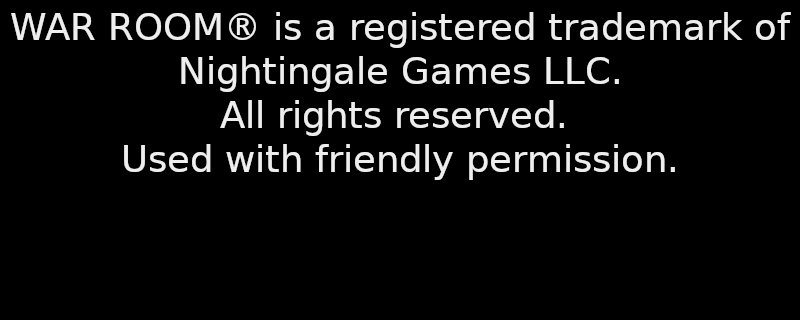
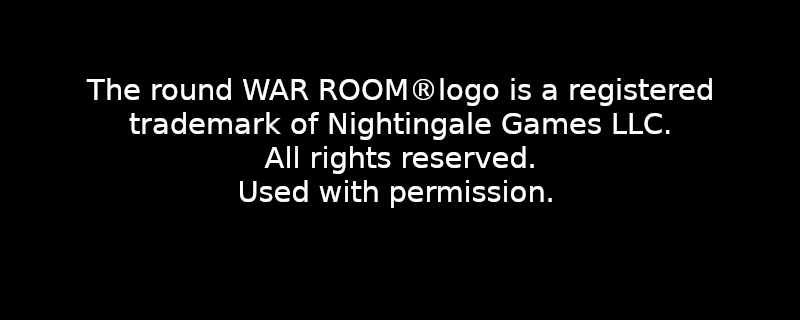
rename to wrbattlesim

Changed region(s): [[0.0, 0.0312, 1.0, 0.6562]]

diff --git a/windows/runner/main.cpp b/windows/runner/main.cpp
@@ -29,7 +29,7 @@ int APIENTRY wWinMain(_In_ HINSTANCE instance, _In_opt_ HINSTANCE prev,
   FlutterWindow window(project);
   Win32Window::Point origin(10, 10);
   Win32Window::Size size(1280, 720);
-  if (!window.Create(L"wrsim", origin, size))
+  if (!window.Create(L"WRBattleSim", origin, size))
   {
     return EXIT_FAILURE;
   }

diff --git a/README.md b/README.md
@@ -1,7 +1,7 @@
 # WR Sim
 ![Example Combat](resources/banner.png)
 
-This app is battle calculator for the board game War Room. Simulate the outcome and make smarter decisions than your opponent!
+This app is battle calculator for the board game War Roonm. Simulate the outcome and make smarter decisions than your opponent!
 
 ## Installation
 
@@ -26,13 +26,13 @@ Q: How does hit assignment for cruisers in escort stance work?
 A: For sea units escort hits are prioritized to be taken for battleships over carriers.
 
 ## Disclaimer
-This is a fanproject for the board game WAR ROOM. It's intent is to help you develop new straegies for the game and help you in your decisions thoughout the game.
+This is a fanproject for the board game War Room. It's intent is to help you develop new straegies for the game and help you in your decisions thoughout the game.
 
 ## Trademark Notice
 
-> WAR ROOM® is a registered trademark of Nightingale Games LLC.
+> The round WAR ROOM® logo is a registered trademark of Nightingale Games LLC.
 > All rights reserved. Used with permission.
 
 ## License Exception
 > All source code in this repository is licensed under the GNU AGPL v3.0.
-> The WAR ROOM logo and related trademark assets are not licensed under the AGPL and are used with permission from Nightingale Games LLC.
+> The round WAR ROOM® logo and related trademark assets are not licensed under the AGPL and are used with permission from Nightingale Games LLC.
